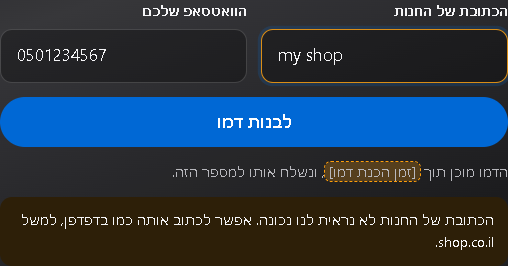
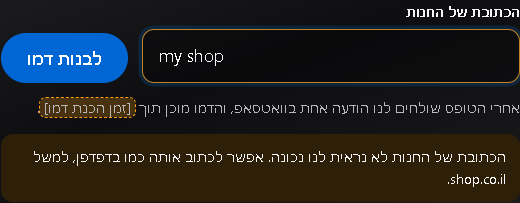
A demo request is confirmed on WhatsApp: the form asks only for the store, and its button opens WhatsApp to the demo number with the request's code written; Toran adds the store for the number that writes
Claude-Session: https://claude.ai/code/session_013ytyKksuwzF2xehLBuYDbT

diff --git a/src/site.js b/src/site.js
@@ -82,7 +82,7 @@
     var A = {
       toran: ['תורן עונה ללקוחות של החנות בוואטסאפ, מתוך מה שכתוב באתר שלה: מוצרים, מחירים, מלאי ודפי המדיניות. מה שלא כתוב שם, הוא שואל אתכם ומעביר את התשובה ללקוח.' + link('/toran', 'לעמוד של תורן'), 'מהעמוד של תורן'],
       teder: ['תדר כותב ומעצב מצגות בעברית לטיקטוק ולאינסטגרם, וכל מצגת עולה רק אחרי שמישהו אישר אותה. הוא עוד לא פתוח לחנויות, ואפשר להצטרף לרשימת ההמתנה.' + link('/teder', 'לעמוד של תדר'), 'מהעמוד של תדר'],
-      demo: ['שולחים לנו את הכתובת של החנות ומספר וואטסאפ. אנחנו בונים דמו מהמוצרים ומדפי המדיניות שבאתר שלכם, ושולחים לכם לינק. כותבים לו כמו לקוח, ורואים מה הוא עונה.' + link('/toran#demo', 'לבנות דמו לחנות'), 'מהעמוד של תורן'],
+      demo: ['ממלאים בטופס את הכתובת של החנות, ושולחים לנו הודעה אחת בוואטסאפ שכבר כתובה. אנחנו בונים דמו מהמוצרים ומדפי המדיניות שבאתר שלכם, ושולחים לכם לינק לאותה שיחה. כותבים לו כמו לקוח, ורואים מה הוא עונה.' + link('/toran#demo', 'לבנות דמו לחנות'), 'מהעמוד של תורן'],
       store: ['היום תורן עובד עם חנויות על Shopify. החיבור ל-WooCommerce ול-Wix בדרך.', 'מהעמוד של תורן'],
       price: ['המחיר החודשי, ומה ש-Meta גובה על הודעות שהחנות שולחת ביוזמתה, כתובים בעמוד של תורן, עם דוגמה במספרים.' + link('/toran#price', 'כמה זה עולה'), 'מהעמוד של תורן'],
       wrong: ['תורן לא ממציא תשובות. הוא עונה רק ממה שכתוב באתר של החנות, וכשאין לו תשובה הוא שואל אתכם במקום לנחש. בשבועיים הראשונים אנחנו גם קוראים איתכם את השיחות ומתקנים.', 'מהשאלות באתר'],

diff --git a/src/form.js b/src/form.js
@@ -1,6 +1,6 @@
 // The site's one script beyond the header: it sends a form without leaving the page. Without it the forms still
-// work, as plain posts that land on /thanks or /try-again. Every word it shows is in the page, in a <template>, so
-// the copy lint reads it like the rest.
+// work, as plain posts: a demo lands on WhatsApp with its message written, the waitlist on /thanks/teder, a failure
+// on /try-again. Every word it shows is in the page, in a <template>, so the copy lint reads it like the rest.
 //   form[data-form="demo" | "teder"]: data-wa is our WhatsApp number (empty in a draft), data-wa-text the message
 //   it starts with, where {store} is the address they typed.
 (function () {
@@ -24,7 +24,7 @@
     })
       .then(function (r) { return r.json().catch(function () { return {}; }).then(function (b) { return { status: r.status, body: b }; }); })
       .then(function (x) {
-        if (x.body.ok) return done(f, kind, x.body.store || data.store);
+        if (x.body.ok) return done(f, kind, x.body.store || data.store, x.body.wa);
         if (x.status >= 500 || !x.body.error) return say(f, msg, 'down', data);
         say(f, msg, x.body.error === 'contact' ? 'contact-' + kind : x.body.error, data);
       })
@@ -64,11 +64,17 @@
     });
   }
 
-  // The thank-you takes the form's place and gets the focus, so a screen reader reads it.
-  function done(f, kind, store) {
+  // The thank-you takes the form's place and gets the focus, so a screen reader reads it. A demo's has the button that
+  // opens WhatsApp with the request's message written; the endpoint sends the link, code and all.
+  function done(f, kind, store, wa) {
     var node = copy('done-' + kind);
     var s = node.querySelector('[data-store]');
     if (s) s.textContent = store || '';
+    var b = node.querySelector('[data-req-wa]');
+    if (b) {
+      if (/^https:\/\/wa\.me\//.test(wa || '')) b.href = wa;
+      else b.remove();
+    }
     f.replaceChildren(node);
     f.classList.add('sent');
     var d = f.querySelector('.done');

diff --git a/src/style.css b/src/style.css
@@ -430,7 +430,8 @@ input:focus, textarea:focus { outline: none; border-color: var(--accent-fill); b
 .demo { display: grid; gap: 14px; margin-top: 28px; max-width: 520px; }
 .demo .btn { width: 100%; }
 .demo .when { margin: 0; color: var(--ink-p); font-size: var(--fs-small); }
-@media (min-width: 700px) { .demo { grid-template-columns: 1fr 1fr; align-items: end; } .demo .btn, .demo .when { grid-column: 1 / -1; } }
+/* one field and its button side by side on a wider screen; the line under them across */
+@media (min-width: 700px) { .demo { grid-template-columns: 1fr auto; align-items: end; } .demo .btn { width: auto; } .demo .when { grid-column: 1 / -1; } }
 
 /* ------------------------------------------------------------ the home page: the company and its two products */
 
@@ -786,6 +787,7 @@ h1 .hl { --hl: var(--of); padding-inline: 0.08em; background: linear-gradient(tr
 input[aria-invalid='true'] { border-color: var(--warn); }
 .done { grid-column: 1 / -1; outline: none; }
 .done h3 { margin-bottom: 6px; }
+.done .btn { width: auto; margin-top: 16px; }
 .done bdi { direction: ltr; unicode-bidi: isolate; }
 .wait.sent + p { display: none; }
 .after { padding-block: 72px 96px; }

diff --git a/README.md b/README.md
@@ -20,14 +20,22 @@ npm run shots        # docs/screenshots: every page at 390px and 1440px, light a
 ## Leads
 
 The demo form and the Teder waitlist post to `server/lead.mjs`, a small Node server with no dependencies
-(`node:sqlite`), behind Caddy at `/api/lead`. Each lead (the store's host name, a WhatsApp number or an email, the
-form, the page, the time) is saved to SQLite first, then sent to Telegram; unsent ones are retried every 5 minutes.
+(`node:sqlite`), behind Caddy at `/api/lead`. Each lead (the store's host name and a request code for a demo, a
+WhatsApp number or an email for the waitlist, the form, the page, the time) is saved to SQLite first, then sent to
+Telegram; unsent ones are retried every 5 minutes.
 One address gets 5 leads an hour, everyone together 200 a day, and a hidden honeypot field catches form-filling
 scripts. A post from another origin is refused. IP addresses are used for the limit in memory only.
 
-With JS the form sends itself and shows the thank-you in place; if the endpoint doesn't answer in 8 seconds, it offers
-a WhatsApp link with the store's address already typed. Without JS the form posts normally and lands on `/thanks`,
-`/thanks/teder` or `/try-again` (which Caddy also serves when the endpoint is down).
+A demo request is confirmed on WhatsApp, not by a typed number. The form asks only for the store's address; the
+endpoint saves it with a code (`REQ-XXXXXX`), hands it to Toran (`TORAN_INTAKE_URL`, retried like Telegram), and
+answers with a link that opens WhatsApp to Toran's demo number (`DEMO_WA_NUMBER`) with the code already written.
+Toran adds the store only when that message arrives, for the number it came from, one demo per number. Without a demo
+number a demo request is answered as down.
+
+With JS the form sends itself and shows the thank-you in place, with the WhatsApp button; if the endpoint doesn't
+answer in 8 seconds, it offers our own WhatsApp link with the store's address already typed. Without JS the form posts
+normally: a demo goes straight to the WhatsApp message, the waitlist to `/thanks/teder`, and a failure to `/try-again`
+(which Caddy also serves when the endpoint is down).
 
 ```sh
 npm test                                        # the endpoint: saving, Telegram, limits, honeypot, origin, Telegram down
